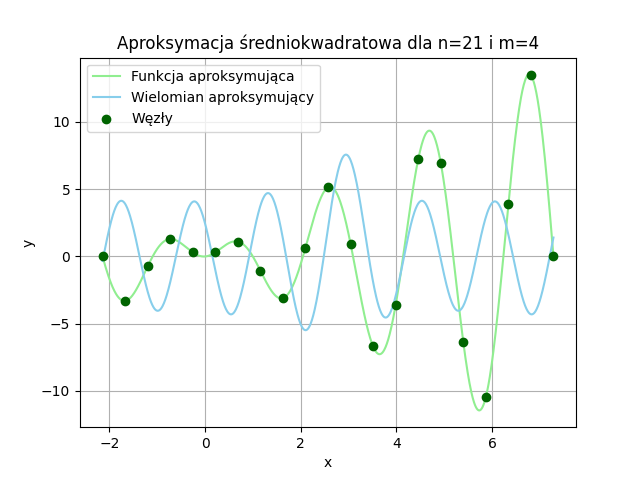
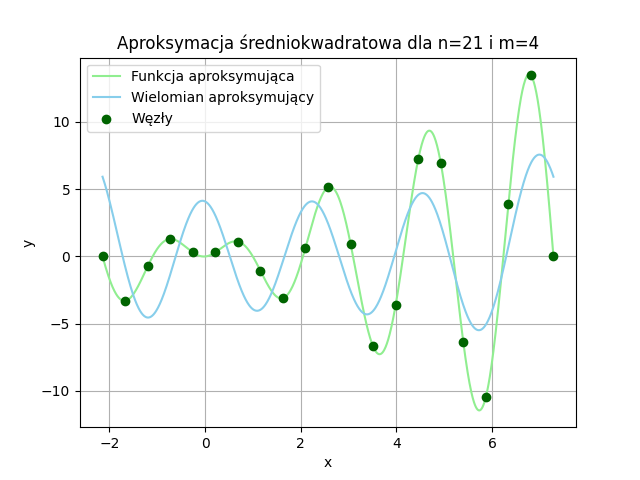
adding table generation and correcting aproximation function for lab 6

diff --git a/lab-6/generatingErrorTables.py b/lab-6/generatingErrorTables.py
@@ -1,0 +1,36 @@
+import numpy as np
+import pandas as pd
+import aproximatedFunction as af
+import aproximationTryg as at
+def avg_error(points,arr_nodes,w_x,m):
+    return np.sqrt(np.sum([np.square((af.f_x(x)-w_x(arr_nodes,x,m))) for x in points]))/len(points)
+
+def max_error(points,arr_nodes,w_x,m):
+    return max([abs(af.f_x(x)-w_x(arr_nodes,x,m)) for x in points])
+
+def export_error_table_to_csv(n_values,m_values,filename,error_f):
+    data = []
+    x_values = np.linspace(-np.pi + 1, 2 * np.pi + 1.1, 1000)
+    columns = ["m"] + [f"n={n}" for n in n_values]
+
+    for m in m_values:
+        row = [m]
+        for n in n_values:
+            if n >= 2*m+1:
+                arr_nodes = np.linspace(-np.pi + 1, 2 * np.pi + 1, n)
+                err = error_f(x_values, arr_nodes, at.tryg_aproximation, m)
+                if np.isfinite(err):
+                    row.append(f"{err:.2e}")
+                else:
+                    row.append('-')
+            else:
+                row.append('-')
+        data.append(row)
+
+    df = pd.DataFrame(data, columns=columns)
+    df.to_csv(f'{filename}.csv', index=False)
+    return
+
+export_error_table_to_csv([5,8,10,12,15,18,20,24,28,30,40,50],[2,3,4,5,6,7,8,9,10,11,13,14,19,24],"./data/msat-avg-err-data",avg_error)
+export_error_table_to_csv([5,8,10,12,15,18,20,24,28,30,40,50],[2,3,4,5,6,7,8,9,10,11,13,14,19,24],"./data/msat-max-err-data",max_error)
+

diff --git a/lab-6/aproximationTryg.py b/lab-6/aproximationTryg.py
@@ -14,6 +14,7 @@ def scaling(nodes_values):
 def tryg_aproximation(nodes_values,x,m):
     
     nodes_values_scaled=scaling(nodes_values)
+    x_scaled = ((x - a) / (b - a)) * 2 * np.pi - np.pi
 
     a_0=fourier(nodes_values_scaled,np.cos,0)
     w_m_x=a_0/2
@@ -21,7 +22,7 @@ def tryg_aproximation(nodes_values,x,m):
     for k in range(1,m+1):
         a_k=fourier(nodes_values_scaled,np.cos,k)
         b_k=fourier(nodes_values_scaled,np.sin,k)
-        w_m_x+=a_k*np.cos(k*x)+b_k*np.sin(k*x)
+        w_m_x+=a_k*np.cos(k*x_scaled)+b_k*np.sin(k*x_scaled)
 
     return w_m_x
 
@@ -59,4 +60,5 @@ def print_plots(arr_n_m):
         for m in arr_m:
             print_plot(m,n)
 
-print_plots([[10,[2,3,4]],[21,[4,5,6,7,8]]])
+#print_plots([[10,[2,3,4]],[15,[4,5,6,7]],[20,[4,5,6,7,8,9]],[30,[8,10,13,14]]])
+#print_plots([[30,[10,12,14]],[40,[7,10,12,15,19]],[50,[7,10,15,20,24]]])
